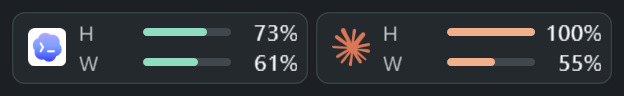
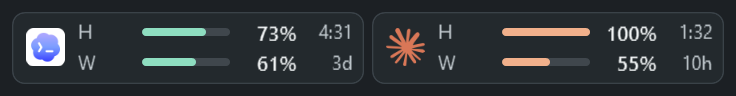
docs: illustrate inline quota and reset times

diff --git a/README.en.md b/README.en.md
@@ -38,7 +38,7 @@ Codex Business uses the supplied `spend_control.individual_limit` and Claude Ent
 
 The current source build shows a countdown beside each quota. It continues to update in manual refresh mode. Hover over a countdown to see the local reset date and time.
 
-In **Settings → Displayed services**, toggle the taskbar widget for each service. Widgets share the dashboard theme and percentage preference. Click a widget to open the dashboard. When space runs out on the primary taskbar, widgets move beside it.
+In **Settings → Displayed services**, toggle the taskbar widget for each service. Widgets share the dashboard theme and percentage preference. Each quota shows the time until its next reset (for example, `4:31`, `10h`, or `2d`). Click a widget to open the dashboard. When space runs out on the primary taskbar, widgets move beside it.
 
 ![Two-row Codex and Claude widgets with example quotas](docs/screenshots/taskbar-widget-light-en.png)
 
